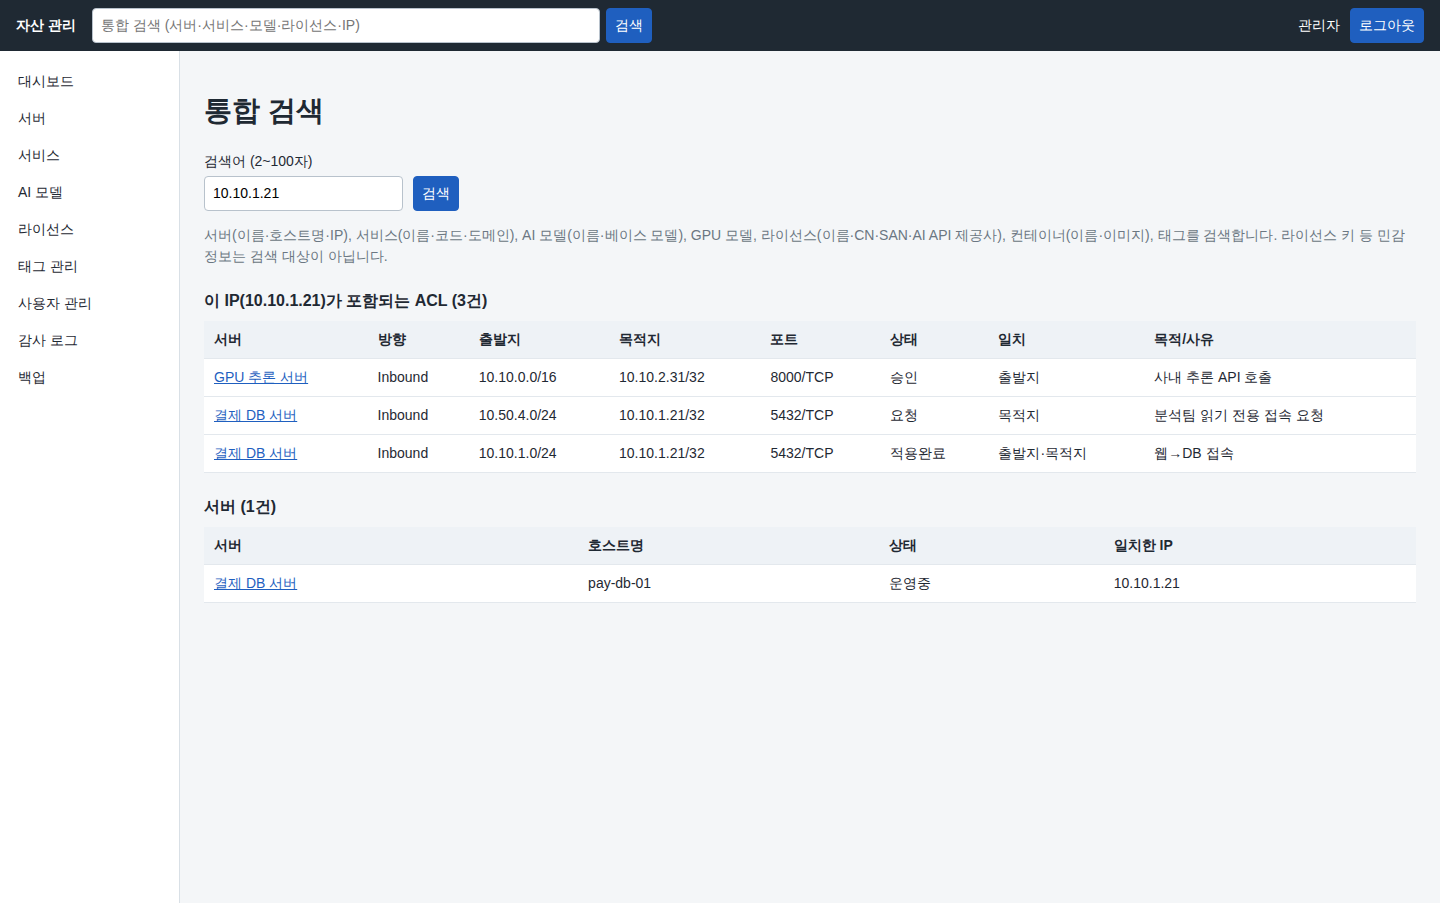
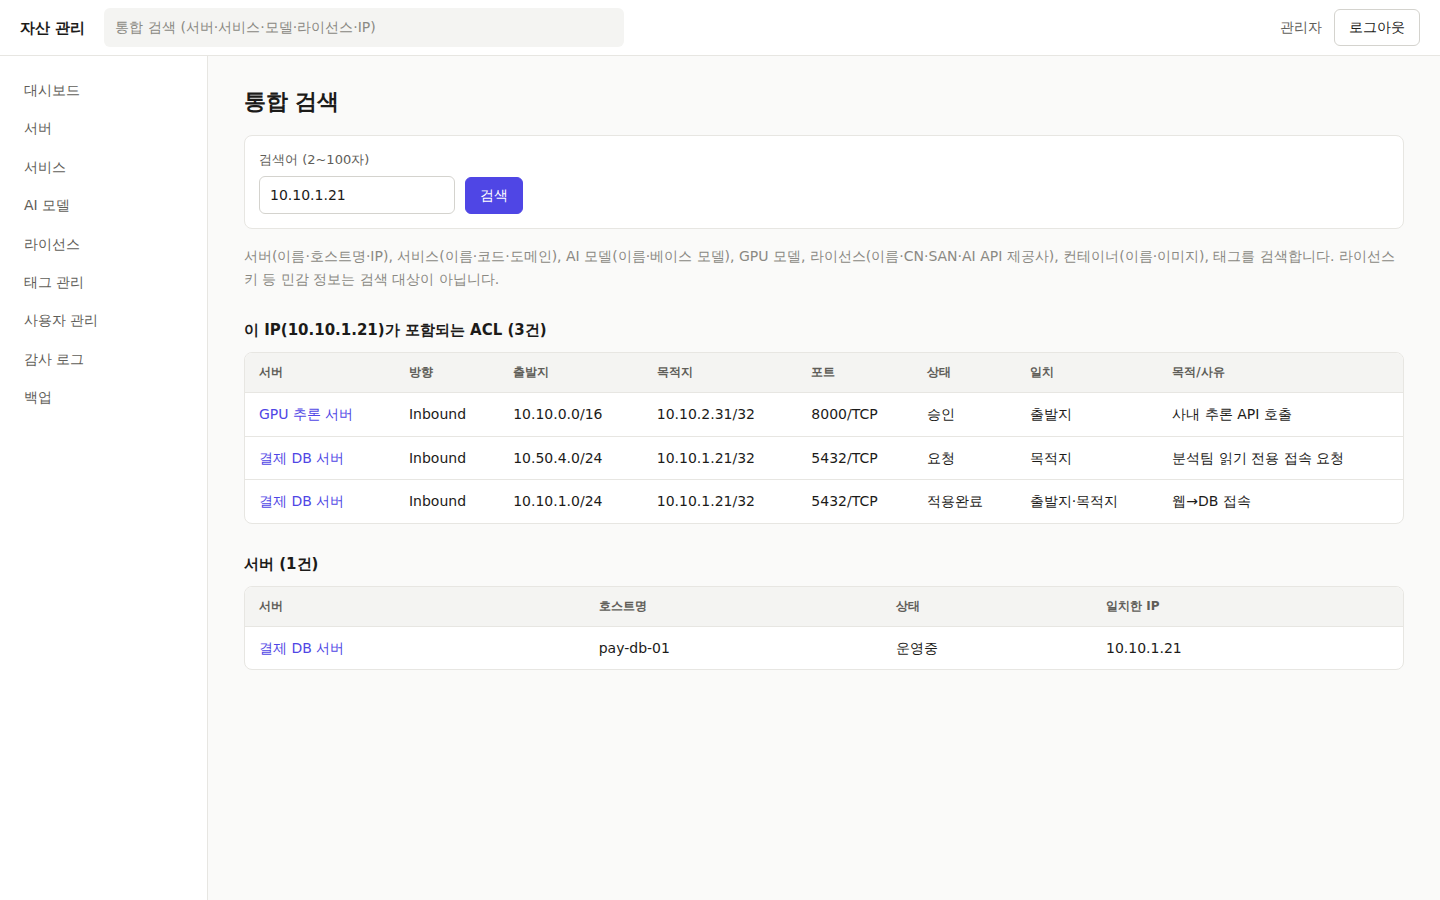
style: 전반 UI를 심플한 모던 스타일로 개편 (디자인 토큰, 다크 모드, 사이드바 현재 위치 표시)
CSS 변수 기반 팔레트와 여백·타이포를 정리하고, 표/배지/카드/폼을 평면적인
톤으로 다듬었다. prefers-color-scheme 다크 모드와 좁은 화면 대응을 추가했다.
외부 폰트·CDN·JS는 쓰지 않으며 클래스명은 그대로 유지한다.

Claude-Session: https://claude.ai/code/session_01ExzT18unHr8qXudT36X9nE

diff --git a/app/static/style.css b/app/static/style.css
@@ -1,57 +1,123 @@
 /* 직접 작성한 단일 스타일시트. 인라인 style 금지(CSP)이므로 모든 모양은 클래스로 처리한다. */
+:root {
+  --bg: #fafaf9; --surface: #ffffff; --subtle: #f4f4f2; --line: #e7e6e2; --line-strong: #d4d3ce;
+  --text: #1c1b19; --text-2: #5f5e59; --text-3: #8a8983;
+  --accent: #4f46e5; --accent-hover: #4338ca; --accent-soft: #eef0ff;
+  --red: #c2342a; --red-soft: #fdeeec; --orange: #b45309; --orange-soft: #fef3e2;
+  --green: #15803d; --green-soft: #e8f6ed; --gray: #5f5e59; --gray-soft: #efeeea;
+  --radius: 8px; --shadow: 0 1px 2px rgba(20, 18, 10, .04);
+  color-scheme: light;
+}
+@media (prefers-color-scheme: dark) {
+  :root {
+    --bg: #131312; --surface: #1b1b1a; --subtle: #232321; --line: #2d2d2a; --line-strong: #3f3f3b;
+    --text: #ecebe7; --text-2: #aaa9a2; --text-3: #7d7c76;
+    --accent: #8b87ff; --accent-hover: #a29fff; --accent-soft: #25254a;
+    --red: #f0776d; --red-soft: #3a1f1d; --orange: #f0a84e; --orange-soft: #392a14;
+    --green: #5cc487; --green-soft: #17301f; --gray: #aaa9a2; --gray-soft: #2a2a27;
+    --shadow: none; color-scheme: dark;
+  }
+}
 * { box-sizing: border-box; }
-body { margin: 0; font: 14px/1.5 -apple-system, "Segoe UI", "Malgun Gothic", "Noto Sans KR", sans-serif; color: #1f2933; background: #f4f6f8; }
-a { color: #1f5fbf; }
-.topbar { display: flex; align-items: center; gap: 16px; padding: 8px 16px; background: #1f2933; color: #fff; }
-.topbar .brand { color: #fff; font-weight: 700; text-decoration: none; }
-.topbar .search { flex: 1; display: flex; gap: 6px; max-width: 560px; }
-.topbar .search input { flex: 1; }
-.userbox { margin-left: auto; display: flex; align-items: center; gap: 10px; }
+html { -webkit-text-size-adjust: 100%; }
+body { margin: 0; font: 14px/1.6 "Pretendard", system-ui, -apple-system, "Segoe UI", "Apple SD Gothic Neo", "Malgun Gothic", "Noto Sans KR", sans-serif; color: var(--text); background: var(--bg); -webkit-font-smoothing: antialiased; word-break: keep-all; overflow-wrap: break-word; }
+a { color: var(--accent); text-decoration: none; }
+a:hover { text-decoration: underline; text-underline-offset: 3px; }
+h1 { font-size: 22px; font-weight: 650; letter-spacing: -.01em; margin: 0 0 16px; }
+h2 { font-size: 15px; font-weight: 650; }
+h3 { font-size: 13px; font-weight: 600; color: var(--text-2); }
+:focus-visible { outline: 2px solid var(--accent); outline-offset: 2px; }
+
+/* 레이아웃 */
+.topbar { position: sticky; top: 0; z-index: 10; display: flex; align-items: center; gap: 20px; height: 56px; padding: 0 20px; background: var(--surface); border-bottom: 1px solid var(--line); }
+.topbar .brand { color: var(--text); font-weight: 700; font-size: 15px; letter-spacing: -.01em; }
+.topbar .brand:hover { text-decoration: none; }
+.topbar .search { flex: 1; display: flex; gap: 8px; max-width: 520px; }
+.topbar .search input { flex: 1; background: var(--subtle); border-color: transparent; }
+.topbar .search input:focus { background: var(--surface); border-color: var(--accent); }
+.topbar .search button { display: none; }
+.userbox { margin-left: auto; display: flex; align-items: center; gap: 12px; color: var(--text-2); }
 .userbox form { margin: 0; }
-.layout { display: flex; min-height: calc(100vh - 48px); }
-.sidebar { width: 180px; padding: 12px 0; background: #fff; border-right: 1px solid #d9e0e6; display: flex; flex-direction: column; }
-.sidebar a { padding: 8px 18px; color: #1f2933; text-decoration: none; }
-.sidebar a:hover { background: #eef2f6; }
-.content { flex: 1; padding: 20px 24px; min-width: 0; }
-.content.narrow { max-width: 420px; margin: 60px auto; background: #fff; border: 1px solid #d9e0e6; border-radius: 6px; }
-input, select, textarea, button { font: inherit; padding: 6px 8px; border: 1px solid #b8c2cc; border-radius: 4px; background: #fff; }
-button { cursor: pointer; background: #1f5fbf; border-color: #1f5fbf; color: #fff; }
-button.secondary { background: #fff; color: #1f2933; border-color: #b8c2cc; }
-button.danger { background: #c0392b; border-color: #c0392b; }
-.field { margin-bottom: 14px; display: flex; flex-direction: column; gap: 4px; }
-.field.has-error input, .field.has-error select, .field.has-error textarea { border-color: #c0392b; }
-.field-error { color: #c0392b; font-size: 13px; }
-.req { color: #c0392b; }
-.flash { padding: 10px 14px; margin-bottom: 14px; border-radius: 4px; border: 1px solid; }
-.flash-success { background: #e6f4ea; border-color: #9ccfae; color: #1e5b34; }
-.flash-error { background: #fdecea; border-color: #f0a8a0; color: #8a1f14; }
-.flash-warning { background: #fff4e0; border-color: #f0c987; color: #7a4b00; }
-table { width: 100%; border-collapse: collapse; background: #fff; }
-th, td { padding: 8px 10px; border-bottom: 1px solid #e3e8ed; text-align: left; vertical-align: top; }
-th { background: #eef2f6; font-weight: 600; }
-.pre { white-space: pre-wrap; }
-.badge { display: inline-block; padding: 1px 8px; border-radius: 10px; font-size: 12px; font-weight: 600; border: 1px solid; }
-.badge-red { background: #fdecea; color: #8a1f14; border-color: #f0a8a0; }
-.badge-orange { background: #fff4e0; color: #7a4b00; border-color: #f0c987; }
-.badge-green { background: #e6f4ea; color: #1e5b34; border-color: #9ccfae; }
-.badge-gray { background: #eef0f2; color: #4a5560; border-color: #c5ccd3; }
-.error-page { text-align: center; padding: 40px 0; }
-.error-page h1 { font-size: 48px; margin: 0; color: #4a5560; }
-.page-head { display: flex; align-items: center; justify-content: space-between; margin-bottom: 12px; }
+.layout { display: flex; min-height: calc(100vh - 56px); }
+.sidebar { width: 208px; flex: none; padding: 16px 12px; display: flex; flex-direction: column; gap: 2px; border-right: 1px solid var(--line); background: var(--surface); }
+.sidebar a { padding: 7px 12px; border-radius: 6px; color: var(--text-2); font-weight: 500; }
+.sidebar a:hover { background: var(--subtle); color: var(--text); text-decoration: none; }
+.sidebar a[aria-current="page"] { background: var(--accent-soft); color: var(--accent); }
+.content { flex: 1; padding: 28px 36px 48px; min-width: 0; max-width: 1280px; }
+.content.narrow { max-width: 400px; margin: 72px auto; padding: 32px; background: var(--surface); border: 1px solid var(--line); border-radius: 12px; box-shadow: var(--shadow); }
+.page-head { display: flex; align-items: center; justify-content: space-between; gap: 12px; margin-bottom: 16px; }
 .page-head h1 { margin: 0; }
-.actions { display: flex; gap: 8px; align-items: center; }
-.actions form { margin: 0; }
-a.button { display: inline-block; padding: 6px 12px; border-radius: 4px; background: #1f5fbf; color: #fff; text-decoration: none; }
-a.button.secondary { background: #fff; color: #1f2933; border: 1px solid #b8c2cc; }
-.filters { display: flex; flex-wrap: wrap; gap: 10px; align-items: flex-end; margin-bottom: 14px; }
+.actions { display: flex; gap: 8px; align-items: center; flex-wrap: wrap; }
+.actions form, .inline-form { margin: 0; }
+.section { margin: 28px 0; }
+.section h2 { margin: 0 0 10px; }
+
+/* 폼 */
+input, select, textarea, button { font: inherit; color: inherit; padding: 7px 10px; border: 1px solid var(--line-strong); border-radius: 6px; background: var(--surface); }
+input:focus, select:focus, textarea:focus { outline: none; border-color: var(--accent); box-shadow: 0 0 0 3px var(--accent-soft); }
+input::placeholder, textarea::placeholder { color: var(--text-3); }
+input[type="checkbox"], input[type="radio"] { padding: 0; accent-color: var(--accent); }
+button, a.button { display: inline-block; cursor: pointer; padding: 7px 14px; border-radius: 6px; background: var(--accent); border: 1px solid var(--accent); color: #fff; font-weight: 500; line-height: 1.5; }
+button:hover, a.button:hover { background: var(--accent-hover); border-color: var(--accent-hover); text-decoration: none; }
+button.secondary, a.button.secondary { background: var(--surface); color: var(--text); border-color: var(--line-strong); }
+button.secondary:hover, a.button.secondary:hover { background: var(--subtle); }
+button.danger { background: var(--red); border-color: var(--red); color: #fff; }
+.field { margin-bottom: 16px; display: flex; flex-direction: column; gap: 5px; }
+.field > label { font-weight: 500; color: var(--text-2); font-size: 13px; }
+.field.has-error input, .field.has-error select, .field.has-error textarea { border-color: var(--red); }
+.field-error { color: var(--red); font-size: 13px; }
+.req { color: var(--red); }
+.form-narrow { max-width: 480px; }
+.form-wide { max-width: 780px; }
+.form-grid { display: grid; grid-template-columns: 1fr 1fr; gap: 0 20px; }
+.form-grid .span2 { grid-column: 1 / -1; }
+.filters { display: flex; flex-wrap: wrap; gap: 10px; align-items: flex-end; margin-bottom: 16px; padding: 14px; background: var(--surface); border: 1px solid var(--line); border-radius: var(--radius); }
 .filters .field { margin: 0; }
 .field-check label { display: flex; gap: 6px; align-items: center; }
-.pagination { display: flex; gap: 12px; align-items: center; justify-content: center; margin: 14px 0; }
-.form-narrow { max-width: 480px; }
-.secret-box { padding: 12px 16px; background: #fff4e0; border: 1px solid #f0c987; border-radius: 4px; margin: 14px 0; }
+td .inline-form button, .note-meta button { padding: 2px 10px; font-size: 12px; }
+
+/* 알림 */
+.flash { padding: 10px 14px; margin-bottom: 16px; border-radius: var(--radius); border: 1px solid; }
+.flash-success { background: var(--green-soft); border-color: transparent; color: var(--green); }
+.flash-error { background: var(--red-soft); border-color: transparent; color: var(--red); }
+.flash-warning { background: var(--orange-soft); border-color: transparent; color: var(--orange); }
+.warn-box, .secret-box { padding: 12px 16px; background: var(--orange-soft); color: var(--text); border: 1px solid transparent; border-radius: var(--radius); margin: 14px 0; }
 .secret-box code { font-size: 18px; font-weight: 700; user-select: all; }
-.muted { color: #6b7782; }
+
+/* 표 */
+table { width: 100%; border-collapse: separate; border-spacing: 0; background: var(--surface); border: 1px solid var(--line); border-radius: var(--radius); overflow: hidden; }
+th, td { padding: 10px 14px; border-bottom: 1px solid var(--line); text-align: left; vertical-align: top; }
+tr:last-child > td { border-bottom: 0; }
+th { background: var(--subtle); color: var(--text-2); font-size: 12px; font-weight: 600; white-space: nowrap; }
+tbody tr:hover { background: var(--subtle); }
+table.compact td { padding: 6px 12px; }
+td.num { text-align: right; font-variant-numeric: tabular-nums; }
+.pagination { display: flex; gap: 14px; align-items: center; justify-content: center; margin: 18px 0; color: var(--text-2); }
+
+/* 배지·태그 */
+.badge { display: inline-block; padding: 1px 9px; border-radius: 999px; font-size: 12px; font-weight: 600; white-space: nowrap; }
+.badge-red { background: var(--red-soft); color: var(--red); }
+.badge-orange { background: var(--orange-soft); color: var(--orange); }
+.badge-green { background: var(--green-soft); color: var(--green); }
+.badge-gray { background: var(--gray-soft); color: var(--gray); }
+.tag { display: inline-block; padding: 0 9px; border-radius: 999px; background: var(--accent-soft); color: var(--accent); font-size: 12px; margin-right: 4px; }
+
+/* 상세·메모 */
+.detail-grid { display: grid; grid-template-columns: 160px 1fr; gap: 10px 20px; background: var(--surface); padding: 18px 20px; border: 1px solid var(--line); border-radius: var(--radius); }
+.detail-grid dt { color: var(--text-3); } .detail-grid dd { margin: 0; }
+.note { background: var(--surface); border: 1px solid var(--line); border-radius: var(--radius); padding: 10px 14px; margin-bottom: 8px; }
+.note-meta { color: var(--text-3); font-size: 12px; display: flex; gap: 10px; align-items: center; }
+.note-meta form { margin: 0; }
+.code-block { background: #1c1b19; color: #ecebe7; padding: 12px 14px; border-radius: var(--radius); overflow-x: auto; font-size: 12px; }
+.pre { white-space: pre-wrap; }
+.muted { color: var(--text-3); }
 .nowrap { white-space: nowrap; }
+.sr-only { position: absolute; width: 1px; height: 1px; overflow: hidden; clip: rect(0 0 0 0); white-space: nowrap; }
+[hidden] { display: none !important; }
+.error-page { text-align: center; padding: 56px 0; }
+.error-page h1 { font-size: 56px; margin: 0; color: var(--text-3); }
+
+/* 막대: 너비는 10% 단위 클래스 (CSP로 style 속성 금지) */
 .w-0 { width: 0%; }
 .w-10 { width: 10%; }
 .w-20 { width: 20%; }
@@ -63,36 +129,30 @@ a.button.secondary { background: #fff; color: #1f2933; border: 1px solid #b8c2cc
 .w-80 { width: 80%; }
 .w-90 { width: 90%; }
 .w-100 { width: 100%; }
-.bar { display: inline-block; width: 90px; height: 10px; background: #e3e8ed; border-radius: 5px; vertical-align: middle; overflow: hidden; }
-.bar-fill { display: block; height: 100%; }
-.bar-green { background: #2e9e5b; } .bar-orange { background: #e08a00; } .bar-red { background: #c0392b; } .bar-gray { background: #9aa5b1; }
-.detail-grid { display: grid; grid-template-columns: 160px 1fr; gap: 6px 16px; background: #fff; padding: 14px 16px; border: 1px solid #e3e8ed; border-radius: 4px; }
-.detail-grid dt { color: #6b7782; } .detail-grid dd { margin: 0; }
-.section { margin: 22px 0; }
-.section h2 { font-size: 16px; margin: 0 0 8px; }
-.form-wide { max-width: 760px; }
-.form-grid { display: grid; grid-template-columns: 1fr 1fr; gap: 0 18px; }
-.form-grid .span2 { grid-column: 1 / -1; }
-.note { background: #fff; border: 1px solid #e3e8ed; border-radius: 4px; padding: 8px 12px; margin-bottom: 8px; }
-.note-meta { color: #6b7782; font-size: 12px; display: flex; gap: 10px; align-items: center; }
-.note-meta form { margin: 0; }
-.tag { display: inline-block; padding: 0 8px; border-radius: 10px; background: #e8eef7; color: #1f4f9a; font-size: 12px; margin-right: 4px; }
-.warn-box { padding: 10px 14px; background: #fff4e0; border: 1px solid #f0c987; border-radius: 4px; margin: 12px 0; }
-.inline-form { display: inline; margin: 0; }
-.inline-form button { padding: 2px 8px; font-size: 12px; }
-.sr-only { position: absolute; width: 1px; height: 1px; overflow: hidden; clip: rect(0 0 0 0); white-space: nowrap; }
-.code-block { background: #1f2933; color: #e8eef5; padding: 10px 12px; border-radius: 4px; overflow-x: auto; font-size: 12px; }
-[hidden] { display: none !important; }
-.cards { display: grid; grid-template-columns: repeat(auto-fill, minmax(150px, 1fr)); gap: 12px; margin: 14px 0 22px; }
-.card { background: #fff; border: 1px solid #d9e0e6; border-radius: 6px; padding: 12px 14px; }
-.card-num { font-size: 26px; font-weight: 700; }
-.card-label { color: #4a5560; font-size: 13px; }
-.card-orange { border-color: #f0c987; background: #fff9ee; }
-.card-red { border-color: #f0a8a0; background: #fff3f1; }
-.alert-area { border: 2px solid #f0a8a0; background: #fff3f1; border-radius: 6px; padding: 12px 16px; margin-bottom: 22px; }
-.alert-area h2 { margin-top: 0; color: #8a1f14; }
-.alert-area h3 { margin: 14px 0 6px; font-size: 14px; }
-.dash-grid { display: grid; grid-template-columns: repeat(auto-fit, minmax(300px, 1fr)); gap: 18px; }
-.dash-grid h3 { margin: 0 0 6px; font-size: 14px; }
-table.compact td { padding: 4px 8px; }
-td.num { text-align: right; font-variant-numeric: tabular-nums; }
+.bar { display: inline-block; width: 90px; height: 6px; background: var(--line); border-radius: 3px; vertical-align: middle; overflow: hidden; }
+.bar-fill { display: block; height: 100%; border-radius: 3px; }
+.bar-green { background: var(--green); } .bar-orange { background: var(--orange); } .bar-red { background: var(--red); } .bar-gray { background: var(--text-3); }
+
+/* 대시보드 */
+.cards { display: grid; grid-template-columns: repeat(auto-fill, minmax(150px, 1fr)); gap: 12px; margin: 16px 0 28px; }
+.card { background: var(--surface); border: 1px solid var(--line); border-radius: 10px; padding: 14px 16px; box-shadow: var(--shadow); }
+.card-num { font-size: 28px; font-weight: 650; letter-spacing: -.02em; font-variant-numeric: tabular-nums; }
+.card-label { color: var(--text-2); font-size: 13px; }
+.card-orange { border-color: var(--orange); }
+.card-red { border-color: var(--red); }
+.alert-area { border: 1px solid var(--red); background: var(--red-soft); border-radius: 10px; padding: 14px 18px; margin-bottom: 28px; }
+.alert-area h2 { margin-top: 0; color: var(--red); }
+.alert-area h3 { margin: 16px 0 6px; color: var(--text); }
+.dash-grid { display: grid; grid-template-columns: repeat(auto-fit, minmax(300px, 1fr)); gap: 20px; }
+.dash-grid h3 { margin: 0 0 6px; }
+
+@media (max-width: 800px) {
+  .layout { flex-direction: column; }
+  .sidebar { width: auto; flex-direction: row; flex-wrap: wrap; border-right: 0; border-bottom: 1px solid var(--line); padding: 8px 12px; }
+  .content { padding: 20px 16px 40px; }
+  .form-grid { grid-template-columns: 1fr; }
+  .detail-grid { grid-template-columns: 1fr; gap: 2px; }
+  .detail-grid dd { margin-bottom: 8px; }
+  .topbar { gap: 10px; padding: 0 12px; }
+  table { display: block; overflow-x: auto; }
+}

diff --git a/app/templates/base.html b/app/templates/base.html
@@ -18,24 +18,25 @@
     <span>{{ user.display_name }}</span>
     <form method="post" action="/logout">
       <input type="hidden" name="csrf_token" value="{{ csrf_token }}">
-      <button type="submit">로그아웃</button>
+      <button type="submit" class="secondary">로그아웃</button>
     </form>
   </div>
 </header>
 {% endif %}
 <div class="layout">
   {% if user %}
+  {% set path = request.url.path %}
   <nav class="sidebar" aria-label="주 메뉴">
-    <a href="/">대시보드</a>
-    <a href="/servers">서버</a>
-    <a href="/services">서비스</a>
-    <a href="/models">AI 모델</a>
-    <a href="/licenses">라이선스</a>
-    {% if user.role in ("editor", "admin") %}<a href="/tags">태그 관리</a>{% endif %}
+    <a href="/"{% if path == "/" %} aria-current="page"{% endif %}>대시보드</a>
+    <a href="/servers"{% if path.startswith("/servers") %} aria-current="page"{% endif %}>서버</a>
+    <a href="/services"{% if path.startswith("/services") %} aria-current="page"{% endif %}>서비스</a>
+    <a href="/models"{% if path.startswith("/models") %} aria-current="page"{% endif %}>AI 모델</a>
+    <a href="/licenses"{% if path.startswith("/licenses") %} aria-current="page"{% endif %}>라이선스</a>
+    {% if user.role in ("editor", "admin") %}<a href="/tags"{% if path.startswith("/tags") %} aria-current="page"{% endif %}>태그 관리</a>{% endif %}
     {% if user.role == "admin" and admin_enabled %}
-    <a href="/users">사용자 관리</a>
-    <a href="/audit">감사 로그</a>
-    <a href="/backup">백업</a>
+    <a href="/users"{% if path.startswith("/users") %} aria-current="page"{% endif %}>사용자 관리</a>
+    <a href="/audit"{% if path.startswith("/audit") %} aria-current="page"{% endif %}>감사 로그</a>
+    <a href="/backup"{% if path.startswith("/backup") %} aria-current="page"{% endif %}>백업</a>
     {% endif %}
   </nav>
   {% endif %}
